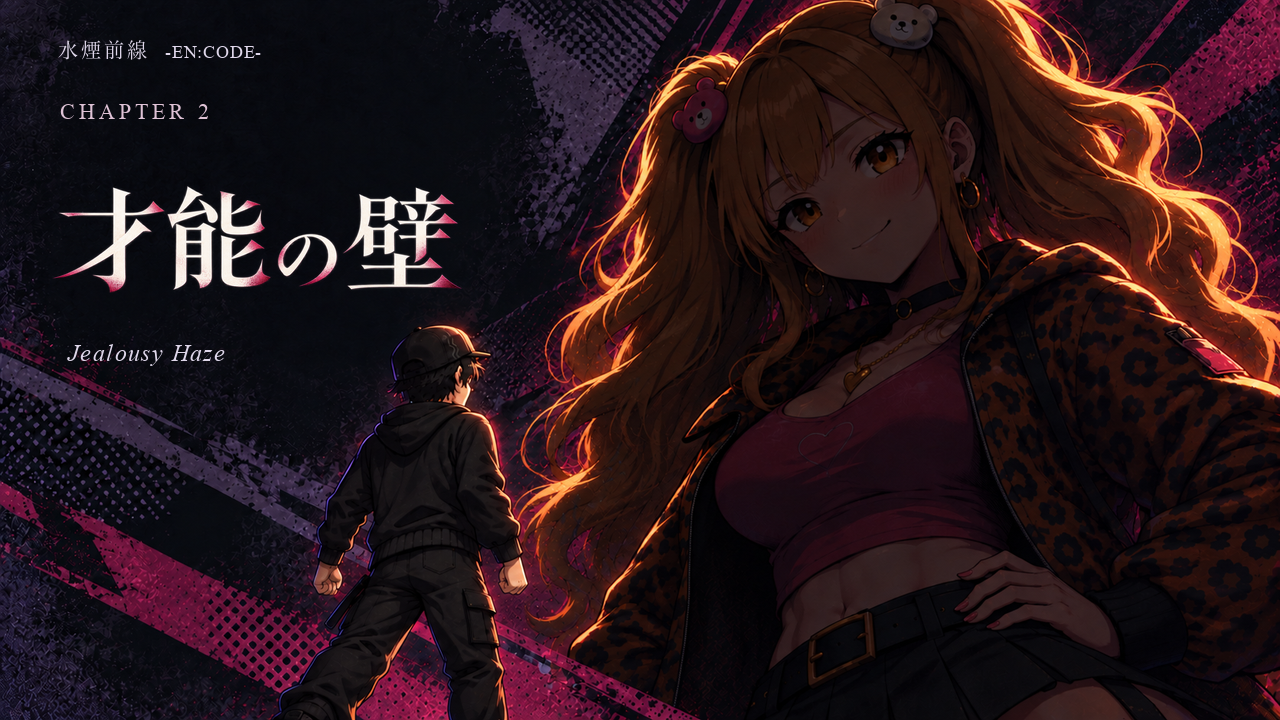
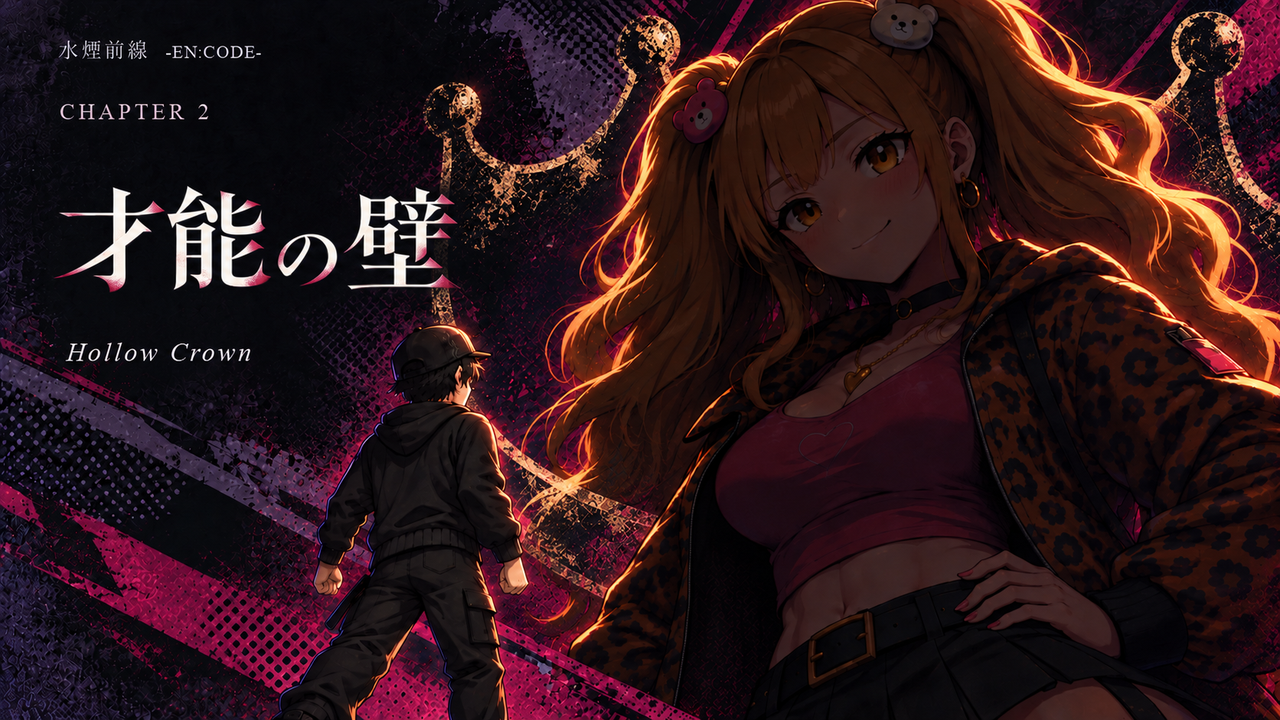
Connect chapter 2 crown composition C to runtime title call and reflect chapter 3 title in canon

diff --git a/remake/js/core/chapter-title-art.js b/remake/js/core/chapter-title-art.js
@@ -2,7 +2,7 @@
 const art = file => new URL(`../../img/ui/chapters/${file}.webp`, import.meta.url).href;
 export const CHAPTER_TITLE_ART = Object.freeze([
   { chapter: 1, no: "第一章", name: "煙がつなぐ街", read: "スモーク・アンド・タイズ ── Smoke & Ties", sub: "SMOKE CROWN CUP 編", url: art("ch1-title") },
-  { chapter: 2, no: "第二章", name: "才能の壁", read: "ジェラシー・ヘイズ ── Jealousy Haze", sub: "HAZE: OPEN CLOUD 編", url: art("ch2-title") },
+  { chapter: 2, no: "第二章", name: "才能の壁", read: "ホロウ・クラウン ── Hollow Crown", sub: "HAZE: OPEN CLOUD 編", url: art("ch2-title") },
   { chapter: 4, no: "第四章", name: "継承の煙", read: "レガシー・スモーク ── Legacy Smoke", url: art("ch4-title") },
   { chapter: 5, no: "第五章", name: "機械仕掛けの神", read: "デウス・エクス・マキナ ── Deus Ex Machina", url: art("ch5-title") },
 ].map(entry => Object.freeze(entry)));

diff --git a/remake/js/chapters/ch1.js b/remake/js/chapters/ch1.js
@@ -658,7 +658,7 @@ export async function showClear() {
       el("div.end-radar", [radar(state.stats, state.statsAtChapterStart, 300)]),
       el("div.end-notes", [
         el("p", { text: "この章で伸びたもの ── 淡い面が章のはじめ、明るい面がいまの自分。" }),
-        el("div.next-teaser", [el("small", { text: "NEXT CHAPTER" }), el("b", { text: "第二章『才能の壁』" }), el("span", { text: "ジェラシー・ヘイズ / HAZE: OPEN CLOUD 編" }), el("span", { text: "初日の隣町への街歩きを遊べます。" })]),
+        el("div.next-teaser", [el("small", { text: "NEXT CHAPTER" }), el("b", { text: "第二章『才能の壁』" }), el("span", { text: "ホロウ・クラウン / HAZE: OPEN CLOUD 編" }), el("span", { text: "初日の隣町への街歩きを遊べます。" })]),
       ]),
     ]),
     el("p.clear-last-line", { text: "あなたの煙は、誰に届いている？" }),

diff --git a/remake/js/chapters/ch2.js b/remake/js/chapters/ch2.js
@@ -125,7 +125,7 @@ async function continueDayOne() {
     if (stage === "departure") {
       if (!progress().titleSeen) {
         await setBg(bgUrl("bg_tonari_inside", "day"), { instant: true });
-        await chapterTitle({ no: "第二章", name: "才能の壁", read: "ジェラシー・ヘイズ ── Jealousy Haze", sub: "HAZE: OPEN CLOUD 編" });
+        await chapterTitle({ no: "第二章", name: "才能の壁", read: "ホロウ・クラウン ── Hollow Crown", sub: "HAZE: OPEN CLOUD 編" });
         if (!current(owner)) return;
         progress().titleSeen = true;
         save();

diff --git a/docs/owner_requests.md b/docs/owner_requests.md
@@ -208,11 +208,11 @@
 
 | ID | 状態 | オーナー要望と対応 |
 | --- | --- | --- |
-| SRV01 | ✅ 案C採用決定 | 第2章「才能の壁」に `Hollow Crown` を移す方向。宙に浮く王冠案の位置を再検討し、はじめが手に下げるA・影のアゲハとつかむB・背景の輪郭にするCを作成。2026-10-19、オーナー指示により案C（背景の王冠輪郭 / `C-crown-background.png`）の採用が決定。[原画と比較記録](../asset_sources/chapter-title/ch2-crown-composition/README.md)。 |
-| SRV02 | 改稿方針と提案を記録・本編未反映 | 謙虚な選択の尊重、2章の空虚と3章の立て直し、南雲が思い出す未熟な頃のすみの味、ダブルアップルの優しい嘘、なるの業界評価、パッキーの愛情ある毒、店を持つ理由の成長、二組のライバルの投影、国ごとの個性、博士との良い結末。[検討記録](plans/story_revision.md)で指定と未採用の場面案を区別する。 |
-| SRV03 | ✅ 第3章題決定・本改稿反映待ち | 2026-10-19、オーナー指示により第3章題は『嘘つきたちの夜 / SMOKE AND MIRRORS』（主題: 強がりと優しい嘘、本音）に決定。章別プロット・人物設定・レビュー指示・台詞・予告を揃え、共同制作向け資料は #544 の編集元と生成手順を確認してWord・PDFへ反映する。今回の比較作業を資料の改稿完了として扱わない。 |
+| SRV01 | ✅ 案C本編タイトルコール接続完了 | 第2章「才能の壁」に `Hollow Crown` を移す方向。オーナー指示により案C（背景の王冠輪郭 / `C-crown-background.png`）を採用決定。1280×720解像度検証を行い、本編タイトルコール（`remake/img/ui/chapters/ch2-title.webp`、`remake/js/core/chapter-title-art.js`）および既存表示箇所（`ch2.js`、`ch1.js`、`ch2.json`、`docs/chapter_previews.md`）へ接続完了。[原画と比較記録](../asset_sources/chapter-title/ch2-crown-composition/README.md)。 |
+| SRV02 | 改稿方針と提案を記録・本編未反映（残作業） | 謙虚な選択の尊重、2章の空虚と3章の立て直し、南雲が思い出す未熟な頃のすみの味、ダブルアップルの優しい嘘、なるの業界評価、パッキーの愛情ある毒、店を持つ理由の成長、二組のライバルの投影、国ごとの個性、博士との良い結末。[検討記録](plans/story_revision.md)で指定と未採用の場面案を区別する。物語・台詞の大幅な本改稿は今回混ぜず残作業とする。 |
+| SRV03 | ✅ 第3章題決定・設定正本反映完了（資料更新は残作業） | 第3章題はオーナー指示により『嘘つきたちの夜 / SMOKE AND MIRRORS』（主題: 強がりと優しい嘘、本音）に決定し、設定正本（`brand/story_and_structure.md`）へ反映完了。共同制作向け資料（#544）の編集元とWord・PDFへの反映は今回混ぜず今後の残作業とする。 |
 
-今回の保存対象は画像候補・生成指示・目視確認と決定した採用方針および改稿計画。正式採用絵・ゲーム本編・設定正本・共同制作向け資料の出力物は未変更。
+今回の保存対象は画像候補・生成指示・目視確認、決定した採用方針と解像度検証（1280×720）、本編タイトルコールへの接続および設定正本への章題反映。物語・台詞の大幅な本改稿および共同制作向け資料（#544）の出力物は未変更（残作業として保持）。
 
 ## 2026-10-13 制作ミニゲームの操作対象を主役にする（#533）
 

diff --git a/docs/plans/story_revision.md b/docs/plans/story_revision.md
@@ -93,9 +93,20 @@
 
 ## タイトル画像の状態
 
-- 第2章の[王冠構図3案](../../asset_sources/chapter-title/ch2-crown-composition/README.md)から、**案C（背景の王冠輪郭 / `C-crown-background.png`）の採用が決定**。
+- 第2章の[王冠構図3案](../../asset_sources/chapter-title/ch2-crown-composition/README.md)から、**案C（背景の王冠輪郭 / `C-crown-background.png`）の採用が決定**。1280×720の正式画像からロスレスWebP（`remake/img/ui/chapters/ch2-title.webp`）を生成し、本編タイトルコール（`remake/js/core/chapter-title-art.js`、`remake/js/chapters/ch2.js`、`remake/js/chapters/ch1.js`、`data/chapter_previews/ch2.json`）へ接続・反映完了。
 - 宙に浮く先行案は位置の再検討を求められた経緯を保持する。
-- 採用決定を受け、今後文字の分離・必要解像度・実際のタイトルコールへの接続を確認する。第3章の画像は決定した新章題『嘘つきたちの夜』と章の終着点に合わせて検討する。
+- 第3章の画像は決定した新章題『嘘つきたちの夜』と章の終着点に合わせて今後検討する。
+
+## 本タスク（#549）での実施範囲と今後の残作業
+
+2026-10-19のオーナー指示に基づき、今回の範囲を以下のように整理・限定した。
+
+- **今回実施した範囲**:
+  - 第2章王冠構図案C（背景の王冠輪郭）の確定・1280×720解像度検証・本編タイトルコール（`remake/img/ui/chapters/ch2-title.webp`、`remake/js/core/chapter-title-art.js`）および既存表示箇所（`ch2.js`、`ch1.js`、`ch2.json`、`docs/chapter_previews.md`）への接続・英題 `Hollow Crown` への統一。
+  - 第3章題『嘘つきたちの夜 / SMOKE AND MIRRORS』の設定正本（`brand/story_and_structure.md`）および既存参照箇所への反映。
+- **今回混ぜず残作業とする範囲**:
+  - 物語・台詞の大幅な本改稿（`data/dialogue/` や個別イベントの改稿、選択の因果調整など）。
+  - 共同制作向け資料（Issue #544）の編集元・Word・PDFの更新。これらは設定方針が固まった後の別タスクとして進行する。
 
 ## 反映先と順序
 

diff --git a/asset_sources/chapter-title/ch2-crown-composition/README.md b/asset_sources/chapter-title/ch2-crown-composition/README.md
@@ -36,4 +36,8 @@
 
 [`previous/floating-crown.png`](previous/floating-crown.png) は「王冠の位置を再検討」となった先行案。採用候補A〜Cと区別する。
 
-2026-10-19、オーナー指示により **C（背景の王冠輪郭 / `images/C-crown-background.png`）の採用が決定**。第3章題は『嘘つきたちの夜 / SMOKE AND MIRRORS』が決定した。本編設定・タイトルコールへの接続および物語・共同制作向け資料の更新方針は [`docs/plans/story_revision.md`](../../../docs/plans/story_revision.md) を参照。
+2026-10-19、オーナー指示により **C（背景の王冠輪郭 / `images/C-crown-background.png`）の採用が決定**。第3章題は『嘘つきたちの夜 / SMOKE AND MIRRORS』が決定した。
+
+本編タイトルコール（1280×720）への接続として、案Cから1280×720の正式PNG（[`images/C-crown-background-1280x720.png`](images/C-crown-background-1280x720.png)）を生成し、配信アセット [`remake/img/ui/chapters/ch2-title.webp`](../../../remake/img/ui/chapters/ch2-title.webp) へロスレスWebP形式（method=6、寸法1280×720一致、全画素検証済み）で反映した。`remake/js/core/chapter-title-art.js` および `remake/js/chapters/ch2.js` の読み表示を `ホロウ・クラウン ── Hollow Crown` へ更新した。
+
+物語・台詞の大幅な改稿および共同制作向け資料（Issue #544）の改稿は今回混ぜず、今後の残作業として整理する（[`docs/plans/story_revision.md`](../../../docs/plans/story_revision.md) 参照）。

diff --git a/remake/README.md b/remake/README.md
@@ -69,11 +69,10 @@
 
 ## 採用済みの章タイトルコール（#385）
 
-第1章「煙がつなぐ街」、第2章「才能の壁」はPR #462の採用画像を章開始に表示する。
+第1章「煙がつなぐ街」、第2章「才能の壁」は採用画像を章開始に表示する。
 第4章「継承の煙」・第5章「機械仕掛けの神」も共通表示へ登録済み。後半章の本編進行は未接続。
-第3章は改題方針の確認待ち。旧「虚ろな王冠」の画像差し替えはオーナー指定で保留し、呼び出し元の文字表示を保つ。
-PR #550の改稿計画には第2章の英題をHollow Crownへ移す方向と第3章改題があり、新しい第3章題は未決定。
-今回は承認済み第2章画像のJealousy Hazeをそのまま表示し、英題の改稿・画像内文字の修正はこの差し替えへ混ぜない。
+第3章はオーナー決定により『嘘つきたちの夜 / SMOKE AND MIRRORS』を採用。画像差し替えは保留し、呼び出し元の文字表示を保つ。
+第2章は王冠構図案C（背景の王冠輪郭）を採用し、英題をHollow Crownへ更新・接続済み（Issue #549 / PR #550）。
 
 `/remake/chapter-titles-preview.html` で1・2・4・5章を本編と同じ表示処理で確認できる。ゲームの保存データは変更しない。
 画像準備後に表示し、読み込めない場合は章名の文字表示で進む。画像内の文字へDOMの章名を重ねず、縦横比を保って全体を収める。

diff --git a/docs/chapter_previews.md b/docs/chapter_previews.md
@@ -1,6 +1,6 @@
 # 第1章の章末と次回予告
 
-Issue #384・#519。第1章で勝利とライバルの「もう一口」を受け取ったあと、はじめが採点表を気にし始める短い余韻から、第二章「才能の壁（ジェラシー・ヘイズ）」の断片へつなぐ。
+Issue #384・#519。第1章で勝利とライバルの「もう一口」を受け取ったあと、はじめが採点表を気にし始める短い余韻から、第二章「才能の壁（ホロウ・クラウン）」の断片へつなぐ。
 
 ## 演出と正本
 
